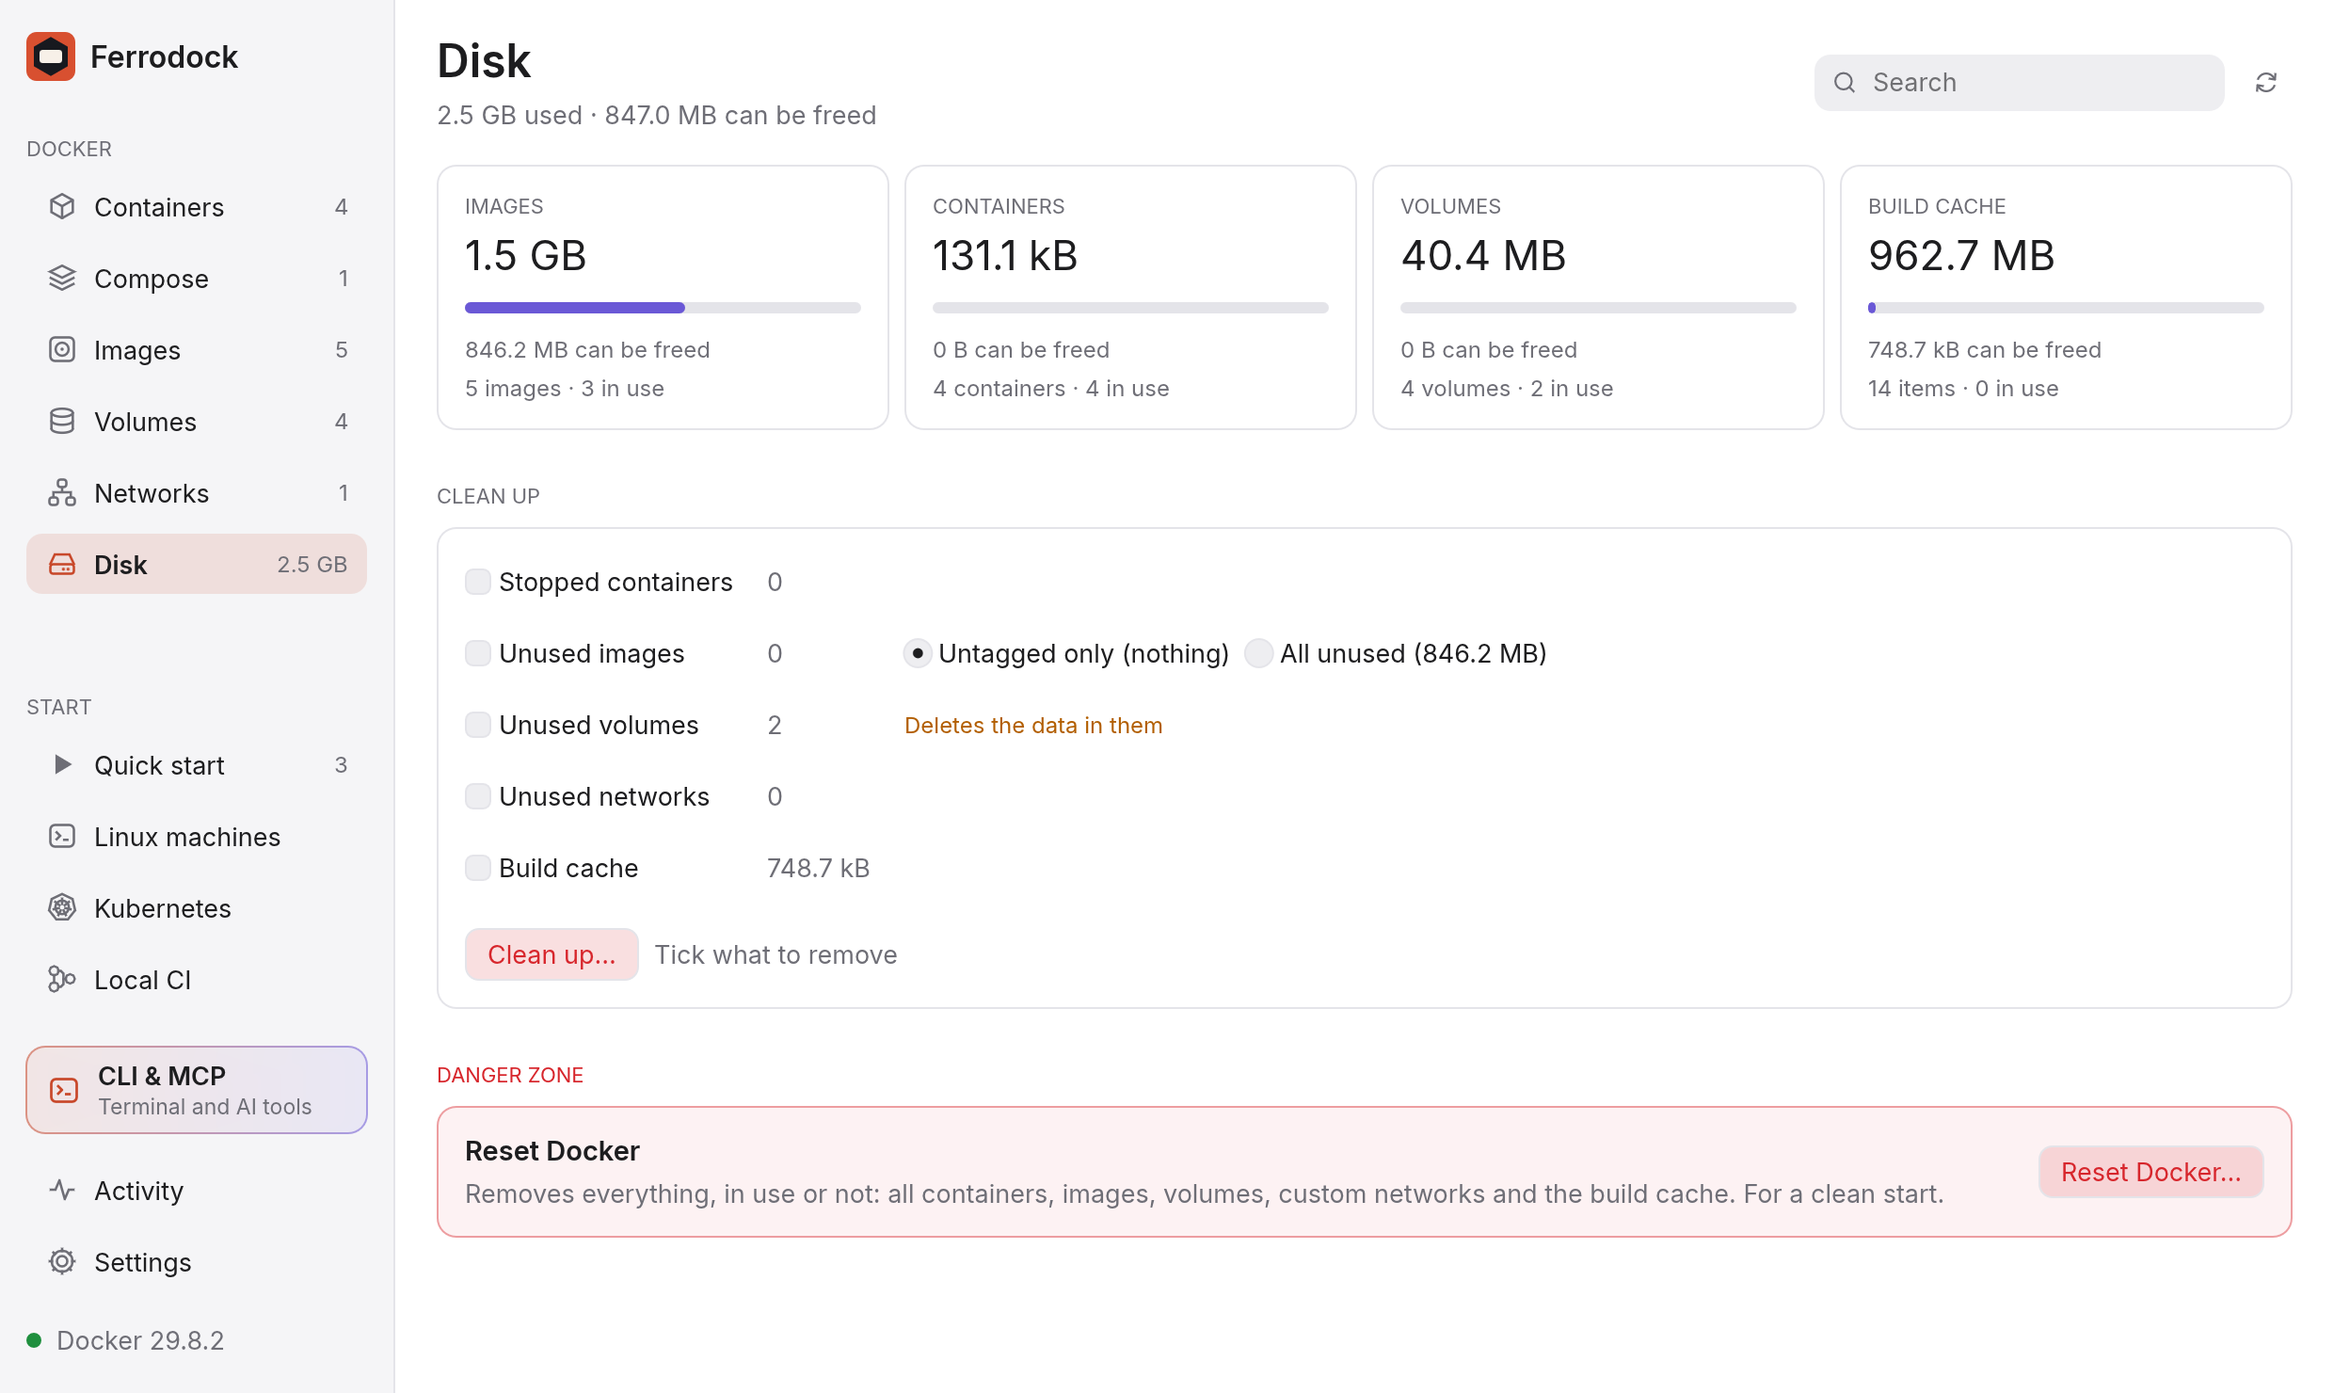
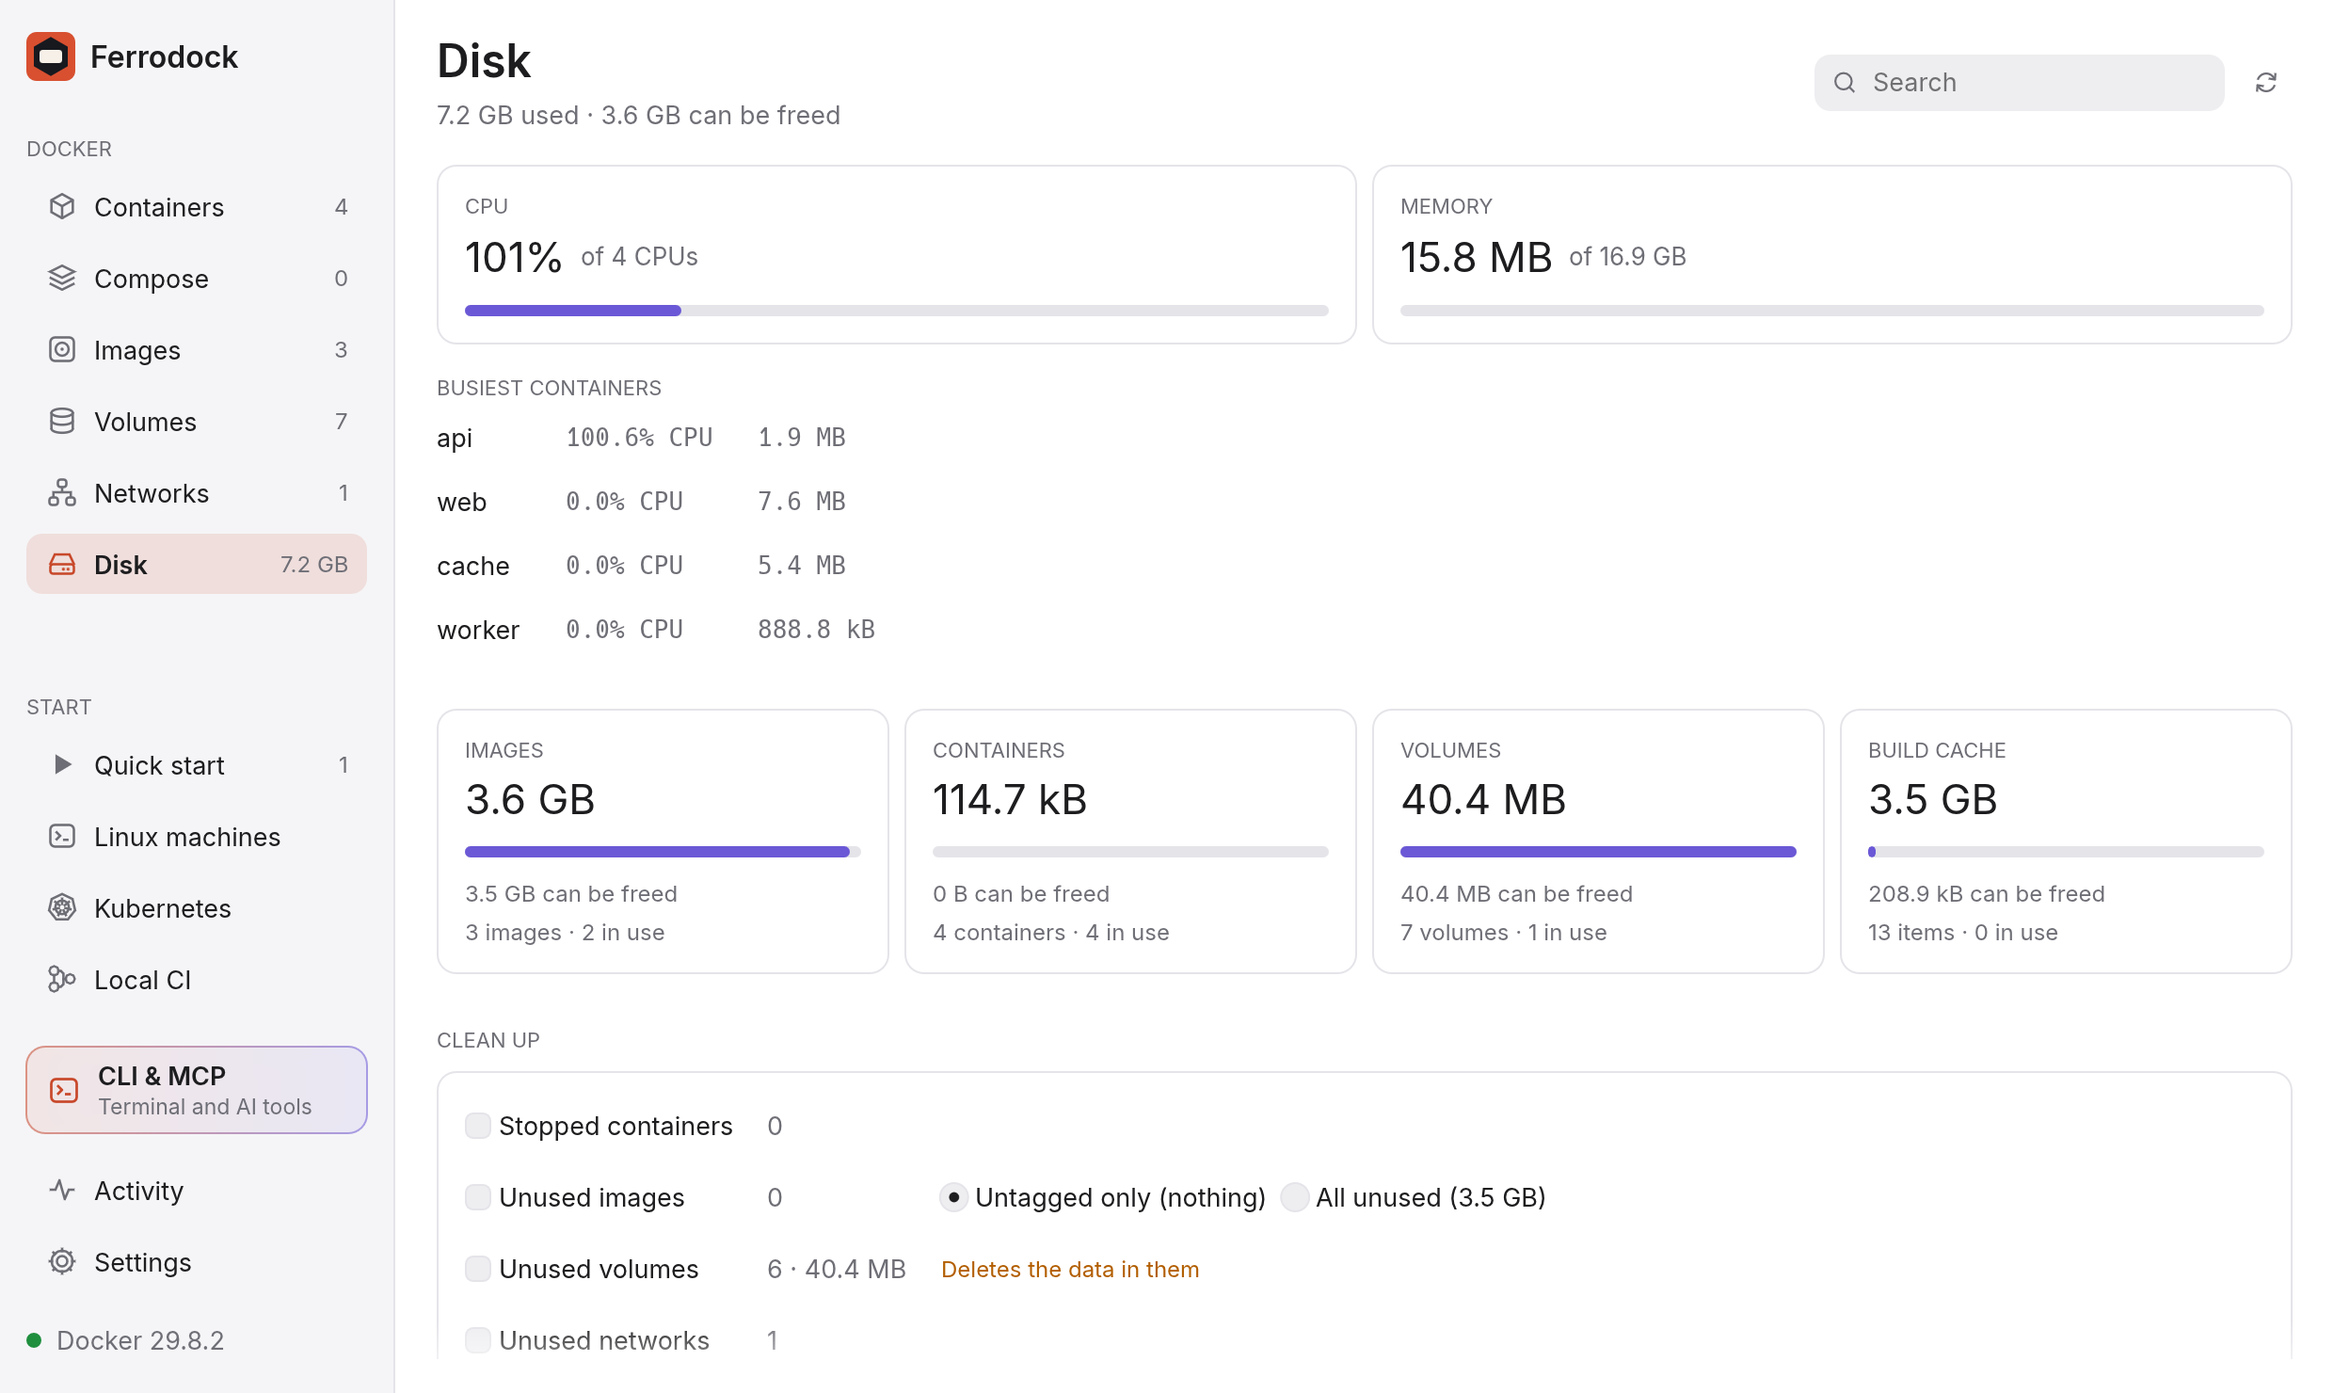
feat: CPU and memory overview on the Disk page (#333)
The Disk page now opens with a live CPU and memory overview (#319).

![Disk
page](https://raw.githubusercontent.com/manimovassagh/Ferrodock/claude/resource-overview/docs/screenshots/disk.png)

## What it shows
- **CPU** and **Memory:** what the running containers use together,
against what the engine has. The engine's CPUs and memory come from
`docker info`, so for Ferrodock's own engine they're the VM's limits
from Settings → Engine.
- **Busiest containers:** the top five, sorted by CPU, then memory.

## How it works
- The figures come from the per-container usage reading the Containers
page already polls for its sparklines (`Response::Usage`). That polling
now also runs while the Disk page is open, and only then, as the issue
asked. A new `Response::Capacity` carries the engine's limits.
- The core crate has `DockerClient::capacity()`, plus `Capacity` and
`Total` types, with a test.

**Limit:** the engine VM's own memory use, beyond its containers, isn't
shown. The Docker API doesn't report it, and reading it from inside the
VM would need a helper container. So the bars show what the containers
use against the VM's size.

## Docs
- `website/docs/using/disk.md` has a new section.
- The README highlight and the landing page's Disk showcase mention the
overview.
- `disk.png` is refreshed in both places, from the screenshot test
against a live engine.

## Checks
- `cargo fmt --all --check`, `cargo clippy --workspace --all-targets --
[…]

diff --git a/website/src/pages/index.js b/website/src/pages/index.js
@@ -293,7 +293,7 @@ const SHOWCASE = [
   },
   {
     title: "Win back your disk space",
-    text: "See how much images, containers, volumes and build cache take, and free it in one step, with a preview of exactly what goes.",
+    text: "See what your containers use of the engine's CPUs and memory right now, how much images, containers, volumes and build cache take, and free it in one step, with a preview of exactly what goes.",
     src: "/img/disk.png",
     alt: "Disk usage page",
   },

diff --git a/src/app/pages/disk.rs b/src/app/pages/disk.rs
@@ -1,5 +1,6 @@
-//! Disk page: where the engine's disk space goes, and a clean-up that
-//! shows exactly what it will delete before it runs.
+//! Disk page: what the engine's containers use right now (CPU and
+//! memory, the busiest first), where its disk space goes, and a clean-up
+//! that shows exactly what it will delete before it runs.
 
 use std::collections::BTreeSet;
 
@@ -10,12 +11,16 @@ use crate::app::components::widgets;
 use crate::app::page::{Command, ConfirmOption, Confirmation, Intent, Page, PageCtx, TypedCheck};
 use crate::app::store::Store;
 use crate::docker::{
-    Action, DiskUsage, PruneKind, RESET_WORD, Resource, Task, Usage, format_size, plural,
+    Action, Capacity, DiskUsage, PruneKind, RESET_WORD, Resource, StatsSample, Task, Total, Usage,
+    format_size, plural,
 };
 use crate::theme::Palette;
 
 /// How many names the preview lists per kind before "and n more".
 const PREVIEW: usize = 6;
+
+/// How many of the busiest containers the overview lists.
+const BUSIEST: usize = 5;
 
 #[derive(Default)]
 pub struct DiskPage {
@@ -211,6 +216,10 @@ impl Page for DiskPage {
         egui::ScrollArea::vertical()
             .auto_shrink(false)
             .show(ui, |ui| {
+                if let Some(capacity) = store.capacity {
+                    resources(ui, p, store, capacity);
+                    ui.add_space(22.0);
+                }
                 if disk.is_reported() {
                     ui.columns(4, |cols| {
                         let parts = [
@@ -480,6 +489,99 @@ fn confirm_reset(store: &Store) -> Intent {
     })
 }
 
+/// The latest reading of each running container, the busiest first.
+fn latest(store: &Store) -> Vec<(&str, StatsSample)> {
+    let mut rows: Vec<(&str, StatsSample)> = store
+        .usage
+        .iter()
+        .filter_map(|(id, history)| {
+            let name = store
+                .containers
+                .iter()
+                .find(|c| &c.id == id)
+                .map_or(id.as_str(), |c| c.name.as_str());
+            history.back().map(|s| (name, *s))
+        })
+        .collect();
+    rows.sort_by(|a, b| {
+        b.1.cpu_percent
+            .total_cmp(&a.1.cpu_percent)
+            .then(b.1.memory_used.cmp(&a.1.memory_used))
+    });
+    rows
+}
+
+/// What the running containers use of the engine's CPUs and memory, and
+/// the busiest of them. Read only while this page is open.
+fn resources(ui: &mut egui::Ui, p: &Palette, store: &Store, capacity: Capacity) {
+    let rows = latest(store);
+    let total = Total::of(rows.iter().map(|(_, s)| s));
+    let cpus = capacity.cpus.max(1);
+    ui.columns(2, |cols| {
+        meter(
+            &mut cols[0],
+            p,
+            "CPU",
+            &format!("{:.0}%", total.cpu_percent),
+            &format!("of {}", plural(cpus as usize, "CPU")),
+            total.cpu_percent / (cpus as f64 * 100.0),
+        );
+        meter(
+            &mut cols[1],
+            p,
+            "MEMORY",
+            &format_size(total.memory as i64),
+            &format!("of {}", format_size(capacity.memory as i64)),
+            total.memory as f64 / capacity.memory.max(1) as f64,
+        );
+    });
+    ui.add_space(10.0);
+    let heading = if rows.is_empty() {
+        "No containers are running"
+    } else {
+        "BUSIEST CONTAINERS"
+    };
+    ui.label(RichText::new(heading).size(11.0).color(p.muted));
+    egui::Grid::new("busiest")
+        .num_columns(3)
+        .spacing(vec2(24.0, 6.0))
+        .show(ui, |ui| {
+            for (name, sample) in rows.iter().take(BUSIEST) {
+                ui.label(RichText::new(*name).color(p.text));
+                ui.label(
+                    RichText::new(format!("{:.1}% CPU", sample.cpu_percent))
+                        .monospace()
+                        .color(p.muted),
+                );
+                ui.label(
+                    RichText::new(format_size(sample.memory_used as i64))
+                        .monospace()
+                        .color(p.muted),
+                );
+                ui.end_row();
+            }
+        });
+}
+
+/// One live figure against its limit, with a bar.
+fn meter(ui: &mut egui::Ui, p: &Palette, title: &str, value: &str, limit: &str, share: f64) {
+    egui::Frame::new()
+        .fill(p.bg)
+        .stroke(Stroke::new(1.0, p.border))
+        .corner_radius(CornerRadius::same(10))
+        .inner_margin(egui::Margin::same(14))
+        .show(ui, |ui| {
+            ui.set_width(ui.available_width());
+            ui.label(RichText::new(title).size(11.0).color(p.muted));
+            ui.horizontal(|ui| {
+                ui.label(RichText::new(value).size(22.0).strong().color(p.text));
+                ui.label(RichText::new(limit).size(13.0).color(p.muted));
+            });
+            ui.add_space(6.0);
+            bar(ui, p, (share.clamp(0.0, 1.0) * 1000.0) as i64, 1000);
+        });
+}
+
 /// One usage summary: size, a bar of how much could be freed, counts.
 fn card(ui: &mut egui::Ui, p: &Palette, title: &str, usage: Option<&Usage>, noun: &str) {
     egui::Frame::new()
@@ -524,7 +626,7 @@ fn card(ui: &mut egui::Ui, p: &Palette, title: &str, usage: Option<&Usage>, noun
         });
 }
 
-/// A thin bar: the freeable share of `total`, in the theme's data colour
+/// A thin bar: `part` of `total`, in the theme's data colour
 /// (the accent reads as a warning, which freeable space isn't).
 fn bar(ui: &mut egui::Ui, p: &Palette, part: i64, total: i64) {
     let (rect, _) = ui.allocate_exact_size(vec2(ui.available_width(), 6.0), Sense::hover());

diff --git a/crates/core/src/stats.rs b/crates/core/src/stats.rs
@@ -90,7 +90,41 @@ impl From<&ContainerStatsResponse> for StatsSample {
     }
 }
 
+/// What the engine has to share between its containers: its CPUs and
+/// memory (the VM's, for an engine that runs in one).
+#[derive(Debug, Clone, Copy, PartialEq, Eq, Default)]
+pub struct Capacity {
+    pub cpus: u64,
+    pub memory: u64,
+}
+
+/// What a set of running containers uses together.
+#[derive(Debug, Clone, Copy, PartialEq, Default)]
+pub struct Total {
+    /// 100% = one full CPU core.
+    pub cpu_percent: f64,
+    pub memory: u64,
+}
+
+impl Total {
+    pub fn of<'a>(samples: impl IntoIterator<Item = &'a StatsSample>) -> Self {
+        samples.into_iter().fold(Self::default(), |t, s| Self {
+            cpu_percent: t.cpu_percent + s.cpu_percent,
+            memory: t.memory + s.memory_used,
+        })
+    }
+}
+
 impl DockerClient {
+    /// The engine's CPUs and memory.
+    pub async fn capacity(&self) -> Result<Capacity, String> {
+        let info = self.docker.info().await.map_err(describe)?;
+        Ok(Capacity {
+            cpus: info.ncpu.unwrap_or(0).max(0) as u64,
+            memory: info.mem_total.unwrap_or(0).max(0) as u64,
+        })
+    }
+
     /// One reading. Docker samples twice, about a second apart, so the CPU
     /// figure is meaningful.
     pub async fn stats_once(&self, id: &str) -> Result<StatsSample, String> {
@@ -176,6 +210,23 @@ mod tests {
     #[test]
     fn first_reading_has_no_cpu_delta() {
         let sample = StatsSample::from(&ContainerStatsResponse::default());
+        let busy = StatsSample {
+            cpu_percent: 150.0,
+            memory_used: 300,
+            ..StatsSample::default()
+        };
+        let idle = StatsSample {
+            cpu_percent: 0.5,
+            memory_used: 20,
+            ..StatsSample::default()
+        };
+        assert_eq!(
+            Total::of([&busy, &idle]),
+            Total {
+                cpu_percent: 150.5,
+                memory: 320
+            }
+        );
         assert_eq!(sample, StatsSample::default());
     }
 }

diff --git a/src/worker/mod.rs b/src/worker/mod.rs
@@ -123,6 +123,8 @@ pub enum Response {
     Disk(DiskUsage),
     /// CPU and memory of every running container, by ID.
     Usage(Vec<(String, StatsSample)>),
+    /// The engine's CPUs and memory.
+    Capacity(crate::docker::Capacity),
     /// Something the user should know about even though they didn't ask,
     /// e.g. a container crashed.
     Alert(String),
@@ -415,7 +417,9 @@ async fn run(mut requests: tokio_mpsc::UnboundedReceiver<Request>, out: Sender) 
             // Each request runs as its own task so a slow `stop` (which
             // waits for the container to exit) doesn't hold up refreshes.
             Request::Refresh(resource) | Request::Poll(resource) => {
-                if polled == Resource::Containers && shared.usage_due() {
+                // Container usage is read for the containers' sparklines
+                // and the Disk page's overview, only while one is open.
+                if matches!(polled, Resource::Containers | Resource::Disk) && shared.usage_due() {
                     let (docker, shared) = (docker.clone(), shared.clone());
                     tokio::spawn(async move { usage(&docker, &shared).await });
                 }
@@ -791,6 +795,9 @@ async fn create_cluster(
 
 /// Reads CPU and memory of every running container, all at once.
 async fn usage(client: &DockerClient, shared: &Shared) {
+    if let Ok(capacity) = client.capacity().await {
+        shared.send(Response::Capacity(capacity));
+    }
     let Ok(containers) = client.list_containers().await else {
         return;
     };

diff --git a/src/app/store/mod.rs b/src/app/store/mod.rs
@@ -93,6 +93,8 @@ pub struct Store {
     /// Recent CPU and memory of each running container (oldest first),
     /// while the Containers page is open.
     pub usage: HashMap<String, VecDeque<StatsSample>>,
+    /// The engine's CPUs and memory, read with the usage.
+    pub capacity: Option<crate::docker::Capacity>,
     /// Pulls in progress, by image reference.
     pub pulls: Vec<(String, PullProgress)>,
     /// Why the last run of an image failed, by image reference, until it's
@@ -142,6 +144,7 @@ impl Store {
             kube_reading: HashSet::new(),
             kube_errors: HashMap::new(),
             usage: HashMap::new(),
+            capacity: None,
             processes: None,
             history: None,
             files: None,
@@ -204,6 +207,7 @@ impl Store {
             Response::Volumes(list) => self.volumes = list,
             Response::Networks(list) => self.networks = list,
             Response::Disk(usage) => self.disk = Some(usage),
+            Response::Capacity(capacity) => self.capacity = Some(capacity),
             Response::Usage(readings) => {
                 // Forget containers that stopped.
                 self.usage

diff --git a/crates/core/src/lib.rs b/crates/core/src/lib.rs
@@ -82,7 +82,7 @@ pub use processes::{Layer, Processes};
 pub use registry::{ImageOp, SearchResult};
 pub use reset::RESET_WORD;
 pub use run::{PullProgress, Restart, RunSpec};
-pub use stats::StatsSample;
+pub use stats::{Capacity, StatsSample, Total};
 pub use templates::{Choices, Overrides, TEMPLATES, Template, port_free, template};
 pub use terminal::{TermOp, exit_message, next_session};
 pub use volumes::VolumeInfo;

diff --git a/website/docs/using/disk.md b/website/docs/using/disk.md
@@ -6,11 +6,19 @@ description: "See what takes space in your Docker engine, free it safely, or res
 
 # Disk cleanup and reset
 
-The **Disk** page shows how much space images, containers, volumes and the
-build cache take, and how much of it can be freed. The total is also shown
-in the sidebar.
+The **Disk** page shows what your containers use right now, how much space
+images, containers, volumes and the build cache take, and how much of it can
+be freed. The disk total is also shown in the sidebar.
 
 ![The Disk page](/img/disk.png)
+
+## CPU and memory
+
+At the top, **CPU** and **Memory** show what the running containers use
+together, against what the engine has: its CPUs and memory (for Ferrodock's
+own engine, the VM's, as set in [Settings → Engine](./settings.md#ferrodocks-engine)). Below,
+the busiest containers are listed, the one using the most CPU first. The
+figures are read every few seconds, only while the page is open.
 
 Disk usage is loaded when you open the page or press refresh, never in the
 background. It needs Docker Engine 29 or newer.

diff --git a/README.md b/README.md
@@ -57,8 +57,9 @@ that instead.
   Docker included.
 - **Volumes and networks**: create them, browse a volume's files, connect
   and disconnect containers.
-- **Disk**: see where the space goes and free it in one step, with a preview
-  of exactly what's deleted. Or start over with **Reset Docker**.
+- **Disk**: what your containers use of the engine's CPUs and memory right
+  now, the busiest first; where the space goes, freed in one step with a
+  preview of exactly what's deleted. Or start over with **Reset Docker**.
 - **Command palette** (⌘K / Ctrl+K) and keyboard shortcuts for everything.
 - **Any engine**: Ferrodock's own, a local `dockerd`, local Podman on macOS
   and Linux, or any Docker context, including remote ones over TLS or SSH.
